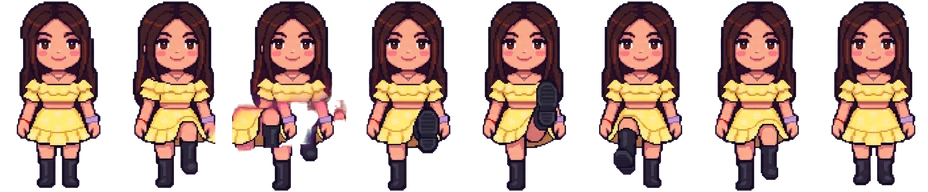
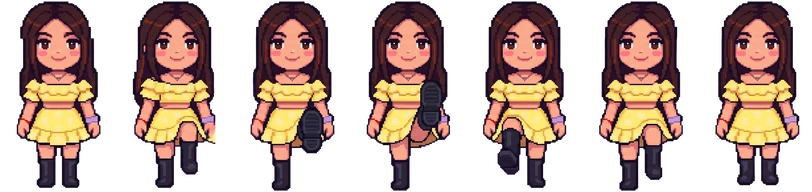
La sentada ya no parpadea: se salta el cuadro corrido del dibujo
El tercer cuadro de «Mini marie sentada.jpeg» trae la falda y el brazo corridos y se veía como un
parpadeo una vez por segundo. El generador lo salta (7 cuadros) sin tocar el dibujo original.
Queda anotado de dónde sale la tira de la sentada, que ningún script regenera.

diff --git a/src/components/avatar/sequences.ts b/src/components/avatar/sequences.ts
@@ -9,6 +9,8 @@ export const FRAME_MS: Record<SequenceName, number> = { run: 90, wave: 140, sit:
  * Tamaños fijos (alto en px) de cada secuencia: «escala entera» (D86). Los dibujos de Mini Marie
  * no siguen una rejilla de píxel regular, así que no se escalan con CSS: cada tamaño es un recurso
  * generado por scripts/build_sprite_scales.mjs con celdas de ancho entero, y se muestra 1:1.
+ * La sentada sale de «Mini marie sentada.jpeg» (sit_strip.webp, que ningún script regenera) y va
+ * sin su tercer cuadro, que en el dibujo viene corrido y parpadeaba (D88): 7 cuadros.
  */
 export const SPRITE_SIZES: Record<SequenceName, readonly number[]> = {
   wave: scales.wave.sizes,
